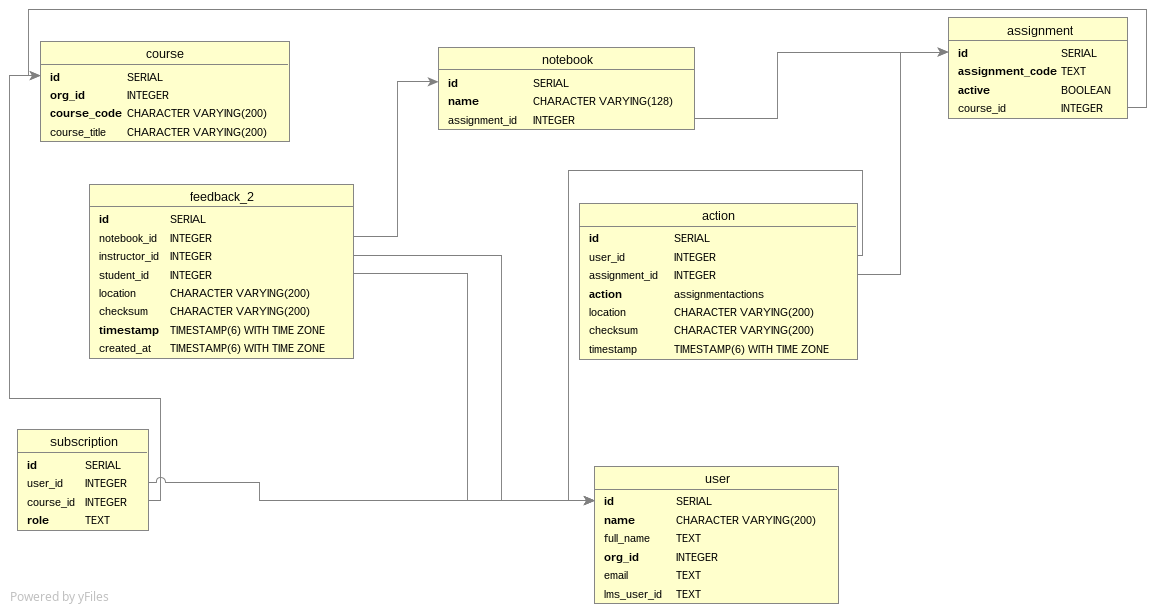
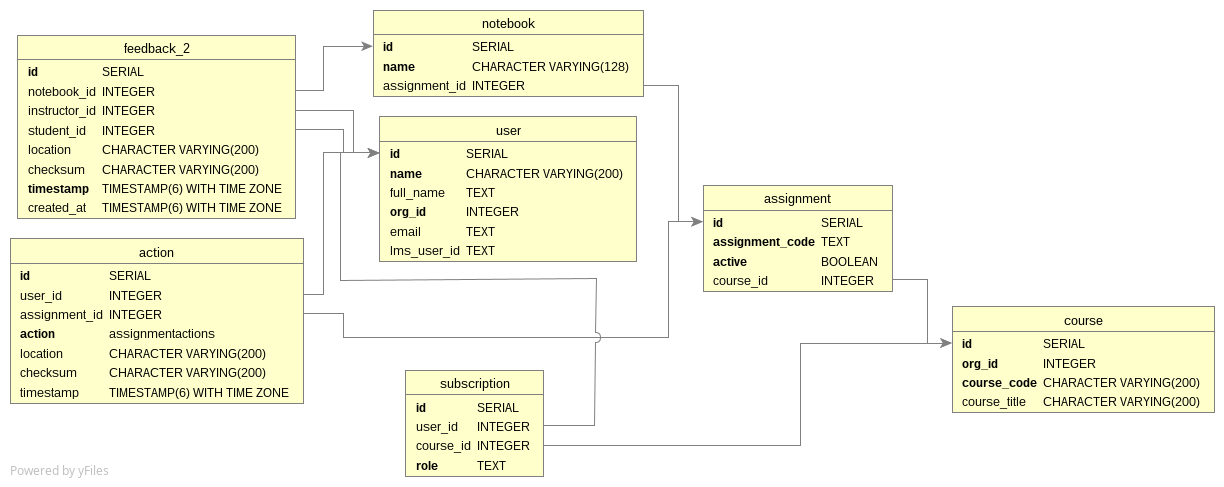
set most timestamps to UTC, and remove the need for Config

diff --git a/nbexchange/app.py b/nbexchange/app.py
@@ -3,10 +3,9 @@ import os
 import sys
 from datetime import datetime
 from getpass import getuser
+from urllib.parse import urljoin
 
 import sentry_sdk
-from jupyter_server.log import log_request
-from jupyter_server.utils import url_path_join as ujoin
 from sentry_sdk.integrations.tornado import TornadoIntegration
 from sqlalchemy.exc import OperationalError
 from tornado import web
@@ -166,7 +165,7 @@ Defaults to 'sqlite:///:memory:' (an in-memory SQLite database)
         """add a url prefix to handlers"""
         for i, tup in enumerate(handlers):
             lis = list(tup)
-            lis[0] = ujoin(prefix, tup[0])
+            lis[0] = urljoin(prefix, tup[0])
             handlers[i] = tuple(lis)
 
         return handlers
@@ -252,7 +251,6 @@ Defaults to 'sqlite:///:memory:' (an in-memory SQLite database)
             version_hash = datetime.now().strftime("%Y%m%d%H%M%S")
 
         settings = dict(
-            log_function=log_request,
             config=self.config,
             debug=self.debug,
             log=self.log,
@@ -278,8 +276,11 @@ Defaults to 'sqlite:///:memory:' (an in-memory SQLite database)
 
         for handler in handlers.default_handlers:
             for url in handler.urls:
-                self.handlers.append((ujoin(self.base_url, url), handler))
-
+                # urljoin hiccups if the url is just '/', so we need to handle that case separately
+                if url == "/":
+                    self.handlers.append((self.base_url, handler))
+                else:
+                    self.handlers.append((urljoin(self.base_url, url), handler))
         self.handlers.append((r"/metrics", MetricsHandler))
 
         self.handlers.append((r".*", base.Template404))
@@ -304,11 +305,6 @@ Defaults to 'sqlite:///:memory:' (an in-memory SQLite database)
         self.load_config_file(self.config_file)
         if self.subapp:
             return
-
-        # Initialize configuration
-        from .config import Config
-
-        Config.initialize(timezone=self.timezone, timestamp_format=self.timestamp_format)
 
         logging.info(f"app.initialisze - db_url: {self.db_url}")
         self.init_db()

diff --git a/nbexchange/models/actions.py b/nbexchange/models/actions.py
@@ -2,11 +2,9 @@ import enum
 from datetime import datetime
 from zoneinfo import ZoneInfo
 
-from dateutil.tz import gettz
 from sqlalchemy import Column, DateTime, Enum, ForeignKey, Integer, Unicode
 from sqlalchemy.orm import relationship, validates
 
-from nbexchange.config import Config
 from nbexchange.models import Base
 
 
@@ -47,8 +45,6 @@ class Action(Base):
 
     """
 
-    tz = gettz(Config.get("timezone"))
-
     __tablename__ = "action"
 
     id = Column(Integer, primary_key=True, autoincrement=True)
@@ -57,7 +53,7 @@ class Action(Base):
     action = Column(Enum(AssignmentActions), nullable=False, index=True)
     location = Column(Unicode(200), nullable=True)  # Location for the file of this action
     checksum = Column(Unicode(200), nullable=True)  # Checksum for the saved file
-    timestamp = Column(DateTime(timezone=True), default=datetime.now(tz))
+    timestamp = Column(DateTime(timezone=True), default=datetime.now(ZoneInfo("Etc/UTC")))
 
     # These are the relationship handles: a specific subscription has a single user to a single course
     user = relationship("User", back_populates="actions")
@@ -109,5 +105,5 @@ class Action(Base):
     @validates("timestamp")  # a datetime object, need to ensure it's returned with a timezone!
     def validate_timestamp(self, key, value):
         if value.tzinfo is None or value.tzinfo.utcoffset(value) is None:
-            value = value.replace(tzinfo=ZoneInfo(Config.get("timezone")))
+            value = value.replace(tzinfo=ZoneInfo("Etc/UTC"))
         return value

diff --git a/nbexchange/tests/test_orm.py b/nbexchange/tests/test_orm.py
@@ -11,12 +11,10 @@ User -> Course -> Subscription -> Assignment -> Action -> Notebook -> Feedback
 """
 
 import pytest
-from mock import patch
 from sqlalchemy.exc import IntegrityError
 
 # NOTE: All objects & relationships that are built up remain until the end of
 # the test-run.
-from nbexchange.config import Config
 from nbexchange.models.actions import Action, AssignmentActions
 from nbexchange.models.assignments import Assignment as AssignmentModel
 from nbexchange.models.courses import Course
@@ -146,11 +144,6 @@ def assignment_a2ovi(db):
         db.add(orm_thing)
         db.commit()
     return orm_thing
-
-
-@pytest.fixture
-def mock_config(timezone="UTC", timestamp_format="%Y-%m-%d %H:%M:%S.%f %Z"):
-    return Config.initialize(timezone=timezone, timestamp_format=timestamp_format)
 
 
 # ## User tests
@@ -698,8 +691,7 @@ def test_notebook_find_all(db, assignment_tree):
 
 # notebook and action previously added, so we can use those
 # kylee = instructor, johaanes = student
-@patch("nbexchange.models.feedback.Config", Config)
-def test_feedback_base_methods_and_find_by_pk(db, assignment_tree, user_kaylee, user_johaannes, mock_config):
+def test_feedback_base_methods_and_find_by_pk(db, assignment_tree, user_kaylee, user_johaannes):
 
     # previous subscriptions & notebooks still in the db
     notebook = Notebook.find_by_name(db, "Exam 2", assignment_tree.id)

diff --git a/nbexchange/models/feedback.py b/nbexchange/models/feedback.py
@@ -1,11 +1,9 @@
 from datetime import datetime
 from zoneinfo import ZoneInfo
 
-from dateutil.tz import gettz
 from sqlalchemy import Column, DateTime, ForeignKey, Integer, Unicode
 from sqlalchemy.orm import relationship, validates
 
-from nbexchange.config import Config
 from nbexchange.models import Base
 from nbexchange.models.notebooks import Notebook
 
@@ -29,7 +27,7 @@ class Feedback(Base):
     location = Column(Unicode(200), nullable=True)  # Location for the file of this action
     checksum = Column(Unicode(200), nullable=True)  # Checksum for the feedback file
     timestamp = Column(DateTime(timezone=True), nullable=False)
-    created_at = Column(DateTime(timezone=True), default=datetime.now(gettz("UTC")))
+    created_at = Column(DateTime(timezone=True), default=datetime.now(ZoneInfo("Etc/UTC")))
 
     # relationships: a specific piece of feedback is for a specific notebook, for a specific
     # student and a specific instructor
@@ -102,5 +100,5 @@ class Feedback(Base):
     @validates("timestamp")  # a datetime object, need to ensure it's returned with a timezone!
     def validate_timestamp(self, key, value):
         if value.tzinfo is None or value.tzinfo.utcoffset(value) is None:
-            value = value.replace(tzinfo=ZoneInfo(Config.get("timezone")))
+            value = value.replace(tzinfo=ZoneInfo("Etc/UTC"))
         return value

diff --git a/README.md b/README.md
@@ -10,7 +10,6 @@ A dockerised service that replaces the default nbgrader Exchange.
 - [Installing](#installing)
   - [nbexchange service](#nbexchange-service)
     - [Helm](#helm)
-  - [nbgrader jlab plugin](#nbgrader-jlab-plugin)
 - [Configuration](#configuration)
   - [Configuring the `nbexchange` service](#configuring-the-nbexchange-service)
     - [**`user_plugin_class`** revisited](#user_plugin_class-revisited)
@@ -29,8 +28,7 @@ The default for nbgrader is to assume all users are on the same computer, and fi
 When using jupyter notebooks in a distributed [dockerised] system, there is no common filesystem - so an alternative mechanism is needed - something that allows files to be transfered via some independant service - eg: 
 ![exchange mechanism in a dockerised environment](dockerised_exchange.png) 
 
-nbexchange provides that intermediate filestore that is covered by this project. The plugins for nbgrader to use this exchange service are provided by a separate project:
-[nbexchange_jlab_plugin](https://github.com/edina/nbexchange_jlab_plugin)
+nbexchange provides that intermediate filestore that is covered by this project. The plugins for nbgrader to use this exchange service are provided by the separate [nbexchange-jlab-plugin project](https://github.com/edina/nbexchange-jlab-plugin)
 
 # Why nbexchange
 
@@ -40,17 +38,17 @@ The exchange is responsible for recieving _release_/_fetch_ path, and _submit_/_
 
 In doing this, the exchange is the authoritative place to get a list of what's what.
 
-`nbexchange` is an external exchange plugin, designed to be run as a docker instance (probably inside a K8 cluster)
+`nbexchange` is an external exchange service, designed to be run as a docker instance (probably inside a K8 cluster)
 
 It's provides an external store for released & submitted assignments, and the feeback cycle.
 
 Following the lead of other Jupyter services, it is a `tornado` application.
 
-The team that created the inital code use nbexchange in a cloud environment, with multiple organisations using a central exchange service. Courses [and this assignments] are differentiated using an `org_id` - if you do not need this feature, just set it to `1` for everthing.
+The team that created the inital code use nbexchange in a cloud environment, with multiple organisations using a central exchange service. Courses [and thus assignments] are differentiated using an `org_id` - if you do not need this feature, effectively ignore it as it defaults to `1`.
 
 ## Compatibility
 
-This version installs `nbgrader`  0.9.5 (which makes it compatible with JupyterLab & Notebook 7)
+This version matches the exchange APIs for `nbgrader`  0.9.5 (which makes it compatible with JupyterLab & Notebook 7)
 
 # Documentation
 
@@ -70,7 +68,7 @@ There are the following assumptions:
     - Note that default nbgrader does not distinguish `assignment_code`s across different `course_codes`, within the same `gradebook` database.
 - There will always be an `organisation_id`
   - `course_code`s must be uniqie within an `organisation_id`,
-  - `course_code`s may be repeated in different `organisation_id`
+  - `course_code`s may be repeated across different `organisation_id`
 
 ## Database relationships
 
@@ -79,10 +77,12 @@ There are the following assumptions:
 **IMPORTANT**
 
 - `action.timestamp` is deliberately set to whatever the value in a submissions `timestamp.txt` file contains - this is how we can tie an action to a submission.
+  - This value should be one of the parameters passed in from the client
 - `feedback.timestamp` is deliberately set to match whatever value `action.timrstamp` is - this is how we can tie a piece of feedback to a submission
-- `feedback.created_at` is always a UTC time
+  - This value should be one of the parameters passed in from the client
+- all other `action.timestamp`, and `feedback.created_at`, entries are _now(UTC)_ 
 
-Note that nbexchange (internally) doesn't really care about timezones - for the most part it is given times to store as part of a POST request, and returns the same.
+Internally, nbexchange doesn't care about timezones - unless it's specticially given a datetime, it uses UTC.
 
 The time _stamp_, the string representation of that time, **does** need to match what it defined in the jupyterlab Exchange plugins.
   
@@ -105,18 +105,6 @@ The service can be deployed via `helm`, ie
 ```
 helm install --name nbexchange --namespace default ./chart -f myconfiguration.yaml
 ```
-
-## nbgrader jlab plugin
-
-Installing nbexchange in a jupyter notebook will automatically install nbgrader.
-
-nbexchange is not released to Pypy or anaconda, however you can install direct from GitHub - eg:
-
-```
-pip install https://github.com/edina/nbexchange_jlab_plugin/archive/refs/tags/v0.2.2-beta.tar.gz
-```
-
-Note that nbgrader installs and enables the jupyter extensions automatically - you may wish to switch *off* `formgrader` and `create_assignment` for non-teachers: YMMV
 
 # Configuration
 
@@ -218,10 +206,11 @@ For the exchange to work, it needs some details about the user connecting to it 
   - This is an nbgrader field, nbexchange doesn't use it itself
 - `lms_user_id`: This is the identifier for the user in the LMS/VLE, if supplied by the remote authenticator.
   - This is an nbgrader field, nbexchange doesn't use it itself
-  - _username_ to access the system running notebooks is probably not the same as the ID the LMS uses to idnetify the user.
+  - The _username_ to access the system running notebooks is probably not the same as the ID the LMS uses to idnetify the user.
+  - This field is needed for things like LTI Assignments and grade services
 - `course_id`: The course code as used in nbgrader (eg `cool course`). 
   - This is `course_id` not `course_code`, as nbgrader uses `course_id` for this piece of data.
-  - Note that any of the characters `{}(){}/\` will give nbgrader a problem [beyond nbexchange]
+  - Note that any of the characters `?+*{}()[]/\` will give nbgrader a problem [beyond nbexchange]
 - `course_title`: A long name for the course (eg `A course of understanding thermondynamics in bulk refrigerant transport`).
 - `course_role`: The role of the user, normally `Student` or `Instructor`. (currently only `Instructor` get privilaged actions).
 - `org_id`: As mentioned above, nbexchange divides courses and users across organisations. This is an id (numeric) for the org_id for the user. It defaults to `1` if not given.
